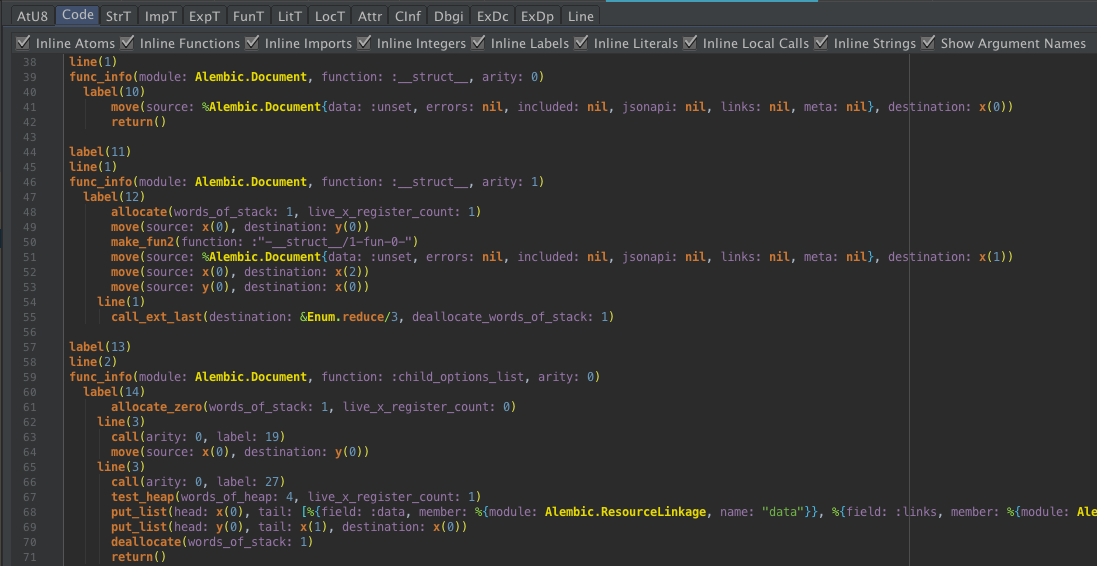
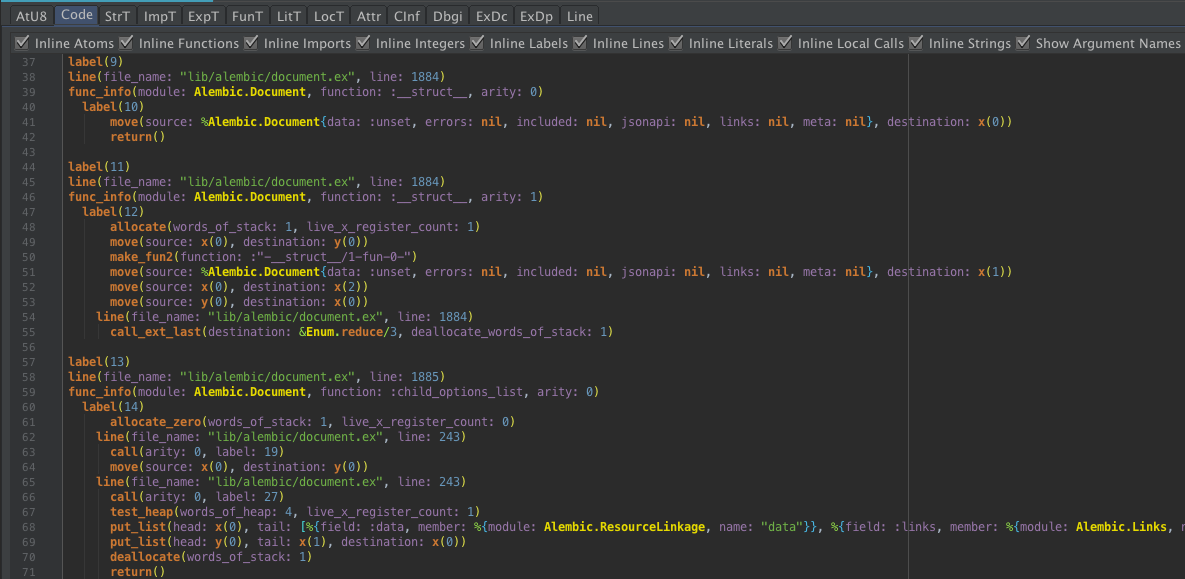
Inline Lines
Inlining Lines changes `line(literal(n))` to `line(file_name: file_name,
line: line)` using the `file_name` and `line` from the `Line` chunk.

Changed region(s): [[0.0, 0.0, 1.0, 1.0]]

diff --git a/src/org/elixir_lang/beam/chunk/code/Operation.kt b/src/org/elixir_lang/beam/chunk/code/Operation.kt
@@ -126,14 +126,37 @@ data class Operation(val code: Code, val termList: List<Term>) {
                     null
                 }
             }
-            Code.LABEL, Code.LINE -> {
+            Code.LABEL -> {
                 val function = code.function
 
                 if (options.inline.integers) {
                     "$function(${(termList[0] as Literal).index})"
                 } else {
-                    // literals of label and line aren't literal references, so don't inline them using inlineLiterals
+                    // literal of label isn't literal references, so don't inline them using inlineLiterals
                     "$function(${argumentsAssembly(cache, options.copy(inline = options.inline.copy(literals = false)))})"
+                }
+            }
+            Code.LINE -> {
+                val function = code.function
+
+                when {
+                    options.inline.lines -> {
+                        cache.lines?.let { lines ->
+                            (termList[0] as? Literal)?.index?.let { index ->
+                                lines.lineReferenceList.getOrNull(index)?.let { lineReference ->
+                                    lines.fileNameList.getOrNull(lineReference.fileNameIndex)?.let { fileName ->
+                                        val line = lineReference.line
+
+                                        "$function(file_name: \"$fileName\", line: $line)"
+                                    }
+                                }
+                            }
+                        }
+                    }
+                    options.inline.integers -> "$function(${(termList[0] as Literal).index})"
+                    else ->
+                        // literal of line isn't literal references, so don't inline them using inlineLiterals
+                        "$function(${argumentsAssembly(cache, options.copy(inline = options.inline.copy(literals = false)))})"
                 }
             }
             else -> null

diff --git a/src/org/elixir_lang/beam/assembly/Controls.kt b/src/org/elixir_lang/beam/assembly/Controls.kt
@@ -106,6 +106,19 @@ class Controls(val cache: Cache, val project: Project): JBScrollPane() {
         }
         scrollable.add(inlineLabelsCheckBox)
 
+        val inlineLinesCheckBox = JBCheckBox("Inline Lines", assemblyOptions.inline.lines)
+        inlineLinesCheckBox.addItemListener { itemEvent ->
+            when (itemEvent.stateChange) {
+                DESELECTED ->
+                    assemblyOptions = assemblyOptions.copy(inline = assemblyOptions.inline.copy(lines = false))
+                SELECTED ->
+                    assemblyOptions = assemblyOptions.copy(inline = assemblyOptions.inline.copy(lines = true))
+            }
+
+            setDocumentText()
+        }
+        scrollable.add(inlineLinesCheckBox)
+
         val inlineLiteralsCheckBox = JBCheckBox("Inline Literals", assemblyOptions.inline.literals)
         inlineLiteralsCheckBox.addItemListener { itemEvent ->
             when (itemEvent.stateChange) {

diff --git a/src/org/elixir_lang/beam/chunk/Code.kt b/src/org/elixir_lang/beam/chunk/Code.kt
@@ -16,6 +16,7 @@ class Code(private val operationList: List<Operation>) {
                 val imports: Boolean = false,
                 val integers: Boolean = true,
                 val labels: Boolean = true,
+                val lines: Boolean = true,
                 val literals: Boolean = false,
                 val localCalls: Boolean = true,
                 val strings: Boolean = true
@@ -26,6 +27,7 @@ class Code(private val operationList: List<Operation>) {
                         functions = false,
                         imports = false,
                         integers = true,
+                        lines = true,
                         literals = false,
                         localCalls = true,
                         strings = true

diff --git a/README.md b/README.md
@@ -2677,6 +2677,11 @@ By default as many references to other chunks and references to other parts of `
       <td><code>label(n)</code></td>
     </tr>
     <tr>
+      <td>Inline Lines</td>
+      <td><code>line(literal(n))</code> looks up index `n` in the "Line Reference" table in the `Lines` chunk.  The Line Reference contains a file name index and line.  The file name index is looked up in the "File Name" table in the `Lines` chunk.  The line from the Line Reference and the File name from the "File Name" table are inlined as `line(file_name: file_name, line: line)`.</td>
+      <td><code>line</code> operations are left as is</td>
+    </tr>
+    <tr>
       <td>Inline Literals</td>
       <td><code>literal(n)</code> looks up index <code>n</code> in <code>LitT</code> chunk and inlines its `inspect`ed version if the argument supports "Inline Literals"</td>
       <td><code>literal(n)</code></td>
